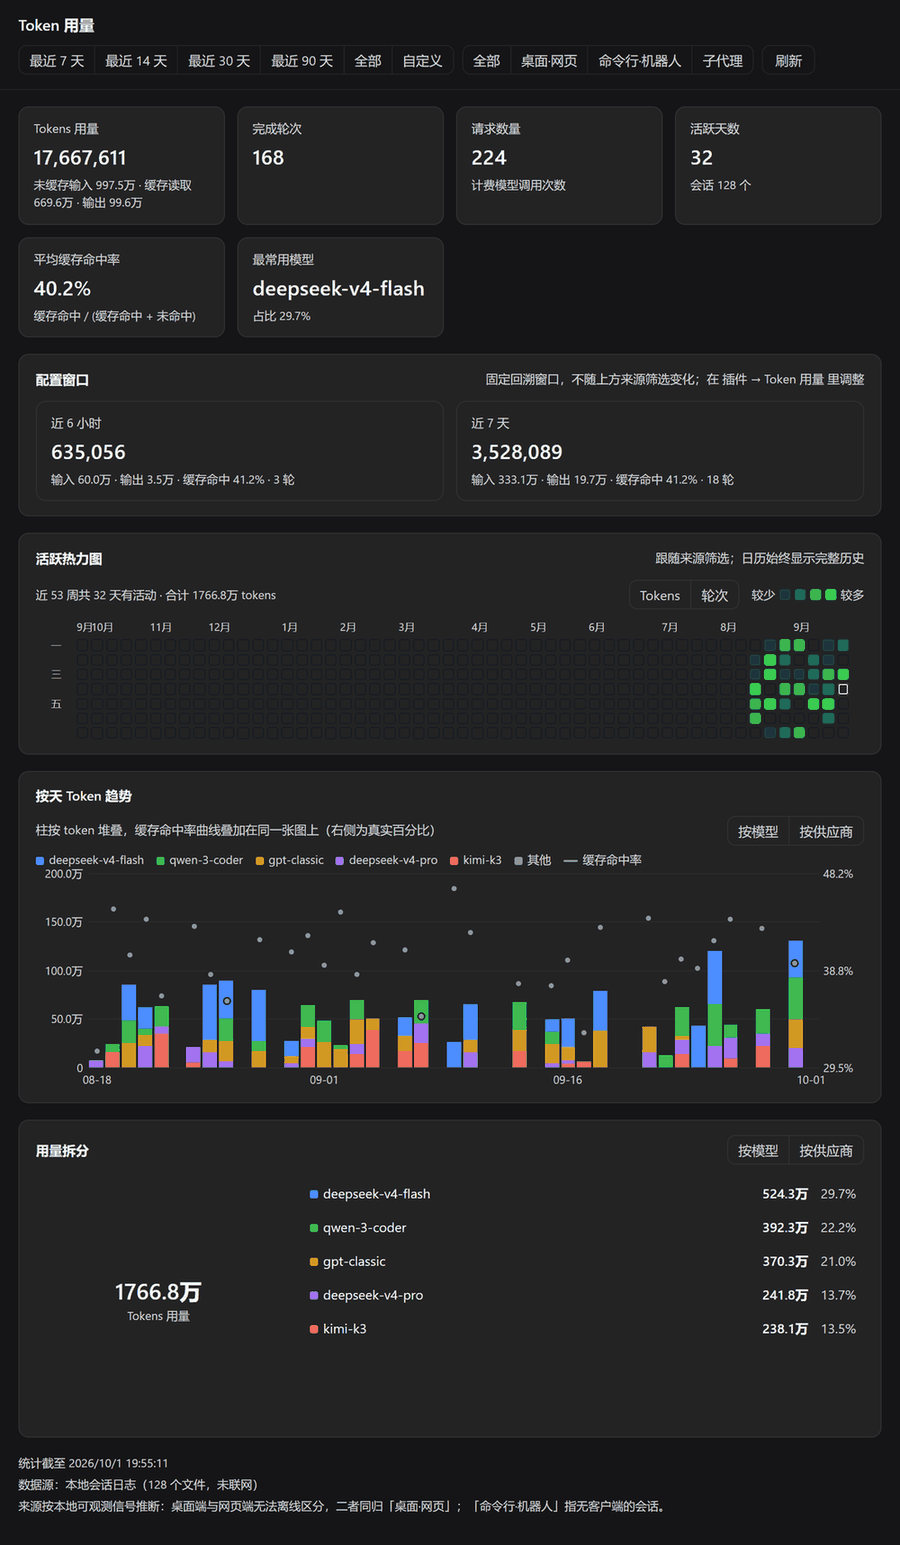
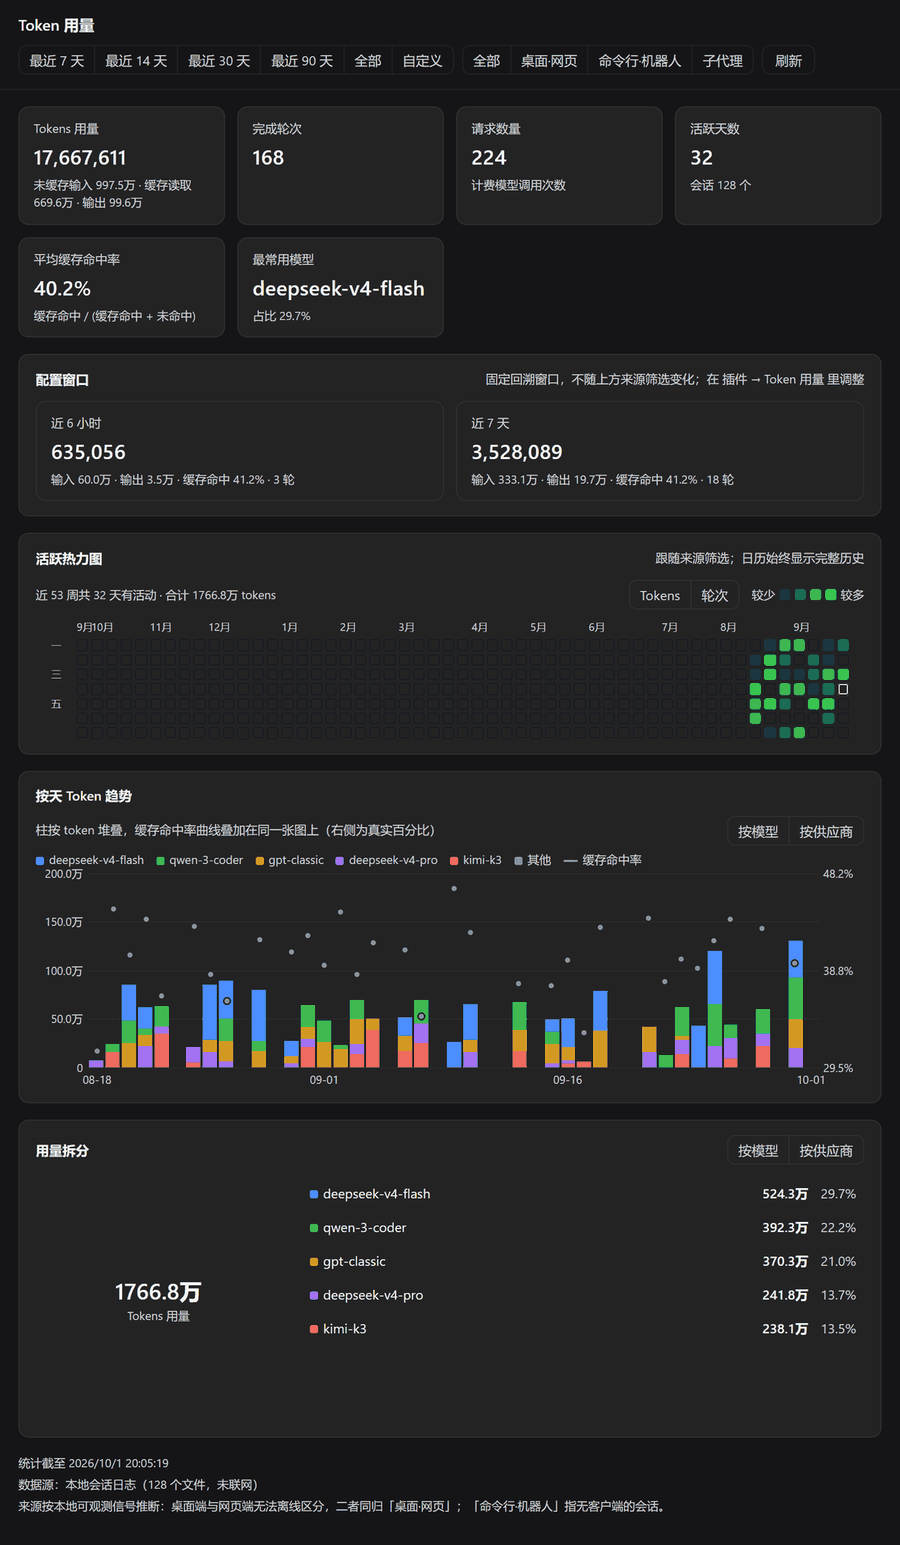
fix(client): 色板改跟随 DSH 自身的明暗标记 body[data-ds-dark-theme]，不再只看系统偏好

diff --git a/client.js b/client.js
@@ -228,33 +228,37 @@ window.__ModuleLoader__.load({
     // ── styles ──────────────────────────────────────────────────────────────
 
     const CSS = `
+/* The shell owns the theme switch: DSH marks dark with body[data-ds-dark-theme]
+   and leaves <body> bare in light mode, so that marker — not the OS preference —
+   decides which half of every light-dark() pair is used. Following
+   prefers-color-scheme alone would leave the charts light whenever DSH is dark
+   on a light desktop (and vice versa). */
 .dtu-root{
+  color-scheme:light dark;
   --dtu-s1:#4c8dff; --dtu-s2:#3fb950; --dtu-s3:#d29922; --dtu-s4:#a371f7; --dtu-s5:#ec6a5e;
-  --dtu-other:#6e7681; --dtu-hit:#57606a;
-  --dtu-heat-0:#ebedf0; --dtu-heat-1:#9be9a8; --dtu-heat-2:#40c463; --dtu-heat-3:#30a14e; --dtu-heat-4:#216e39;
+  --dtu-other:light-dark(#6e7681,#8b949e); --dtu-hit:light-dark(#57606a,#8b949e);
+  --dtu-heat-0:light-dark(#ebedf0,#161b22); --dtu-heat-1:light-dark(#9be9a8,#0e4429);
+  --dtu-heat-2:light-dark(#40c463,#006d32); --dtu-heat-3:light-dark(#30a14e,#26a641);
+  --dtu-heat-4:light-dark(#216e39,#39d353);
   display:block;height:100%;overflow:auto;background:var(--dsw-alias-bg-base);color:var(--dsw-alias-label-primary);font-size:13px}
+body[data-ds-dark-theme] .dtu-root{color-scheme:dark}
+body:not([data-ds-dark-theme]) .dtu-root{color-scheme:light}
 .dtu-root[data-dtu-palette="cvd"]{
-  --dtu-s1:#0072b2; --dtu-s2:#e69f00; --dtu-s3:#009e73; --dtu-s4:#cc79a7; --dtu-s5:#56b4e9;
-  --dtu-other:#7b8794; --dtu-hit:#0072b2;
-  --dtu-heat-0:#eef4fa; --dtu-heat-1:#c6dbef; --dtu-heat-2:#7fb3d9; --dtu-heat-3:#3d85c6; --dtu-heat-4:#084594}
+  --dtu-s1:light-dark(#0072b2,#58a6ff); --dtu-s2:light-dark(#e69f00,#ffc857);
+  --dtu-s3:light-dark(#009e73,#4dd4ac); --dtu-s4:light-dark(#cc79a7,#f0a6c8);
+  --dtu-s5:light-dark(#56b4e9,#83c9f4);
+  --dtu-other:light-dark(#7b8794,#9aa5b1); --dtu-hit:light-dark(#0072b2,#58a6ff);
+  --dtu-heat-0:light-dark(#eef4fa,#111823); --dtu-heat-1:light-dark(#c6dbef,#12395c);
+  --dtu-heat-2:light-dark(#7fb3d9,#1b5a8a); --dtu-heat-3:light-dark(#3d85c6,#2f7fbd);
+  --dtu-heat-4:light-dark(#084594,#5fb0e8)}
 .dtu-root[data-dtu-palette="muted"]{
-  --dtu-s1:#4c6a92; --dtu-s2:#6e9c7a; --dtu-s3:#c9a227; --dtu-s4:#9a6b8f; --dtu-s5:#7a8ca3;
-  --dtu-other:#8a857c; --dtu-hit:#4c6a92;
-  --dtu-heat-0:#f0efe9; --dtu-heat-1:#cfd8c4; --dtu-heat-2:#a8bb98; --dtu-heat-3:#7d9a6d; --dtu-heat-4:#547049}
-@media (prefers-color-scheme: dark){
-  .dtu-root{
-    --dtu-s1:#4c8dff; --dtu-s2:#3fb950; --dtu-s3:#d29922; --dtu-s4:#a371f7; --dtu-s5:#ec6a5e;
-    --dtu-other:#8b949e; --dtu-hit:#8b949e;
-    --dtu-heat-0:#161b22; --dtu-heat-1:#0e4429; --dtu-heat-2:#006d32; --dtu-heat-3:#26a641; --dtu-heat-4:#39d353}
-  .dtu-root[data-dtu-palette="cvd"]{
-    --dtu-s1:#58a6ff; --dtu-s2:#ffc857; --dtu-s3:#4dd4ac; --dtu-s4:#f0a6c8; --dtu-s5:#83c9f4;
-    --dtu-other:#9aa5b1; --dtu-hit:#58a6ff;
-    --dtu-heat-0:#111823; --dtu-heat-1:#12395c; --dtu-heat-2:#1b5a8a; --dtu-heat-3:#2f7fbd; --dtu-heat-4:#5fb0e8}
-  .dtu-root[data-dtu-palette="muted"]{
-    --dtu-s1:#8fa8c8; --dtu-s2:#9dc0a6; --dtu-s3:#e0c46a; --dtu-s4:#c49ab8; --dtu-s5:#a8b6c6;
-    --dtu-other:#a8a196; --dtu-hit:#8fa8c8;
-    --dtu-heat-0:#1a1a17; --dtu-heat-1:#2c3a28; --dtu-heat-2:#47603e; --dtu-heat-3:#688a56; --dtu-heat-4:#8fb273}
-}
+  --dtu-s1:light-dark(#4c6a92,#8fa8c8); --dtu-s2:light-dark(#6e9c7a,#9dc0a6);
+  --dtu-s3:light-dark(#c9a227,#e0c46a); --dtu-s4:light-dark(#9a6b8f,#c49ab8);
+  --dtu-s5:light-dark(#7a8ca3,#a8b6c6);
+  --dtu-other:light-dark(#8a857c,#a8a196); --dtu-hit:light-dark(#4c6a92,#8fa8c8);
+  --dtu-heat-0:light-dark(#f0efe9,#1a1a17); --dtu-heat-1:light-dark(#cfd8c4,#2c3a28);
+  --dtu-heat-2:light-dark(#a8bb98,#47603e); --dtu-heat-3:light-dark(#7d9a6d,#688a56);
+  --dtu-heat-4:light-dark(#547049,#8fb273)}
 .dtu-head{position:sticky;top:0;z-index:2;display:flex;flex-wrap:wrap;gap:10px;align-items:center;justify-content:space-between;padding:14px 18px;background:var(--dsw-alias-bg-base);border-bottom:1px solid var(--dsw-alias-border-l1)}
 .dtu-title{font-size:15px;font-weight:600}
 .dtu-controls{display:flex;flex-wrap:wrap;gap:8px;align-items:center}

diff --git a/scripts/render-shots.py b/scripts/render-shots.py
@@ -130,7 +130,8 @@ def main():
             page = browser.new_page(viewport={"width": 1400, "height": 1600}, device_scale_factor=2)
             page.set_content(html, wait_until="load")
             if theme == "dark":
-                page.emulate_media(color_scheme="dark")
+                # The shell's marker is what the plugin reads; the OS preference is
+                # deliberately not emulated, so the shot proves which one wins.
                 page.evaluate("document.body.setAttribute('data-ds-dark-theme','')")
             page.wait_for_timeout(400)
             print(theme + ":")
